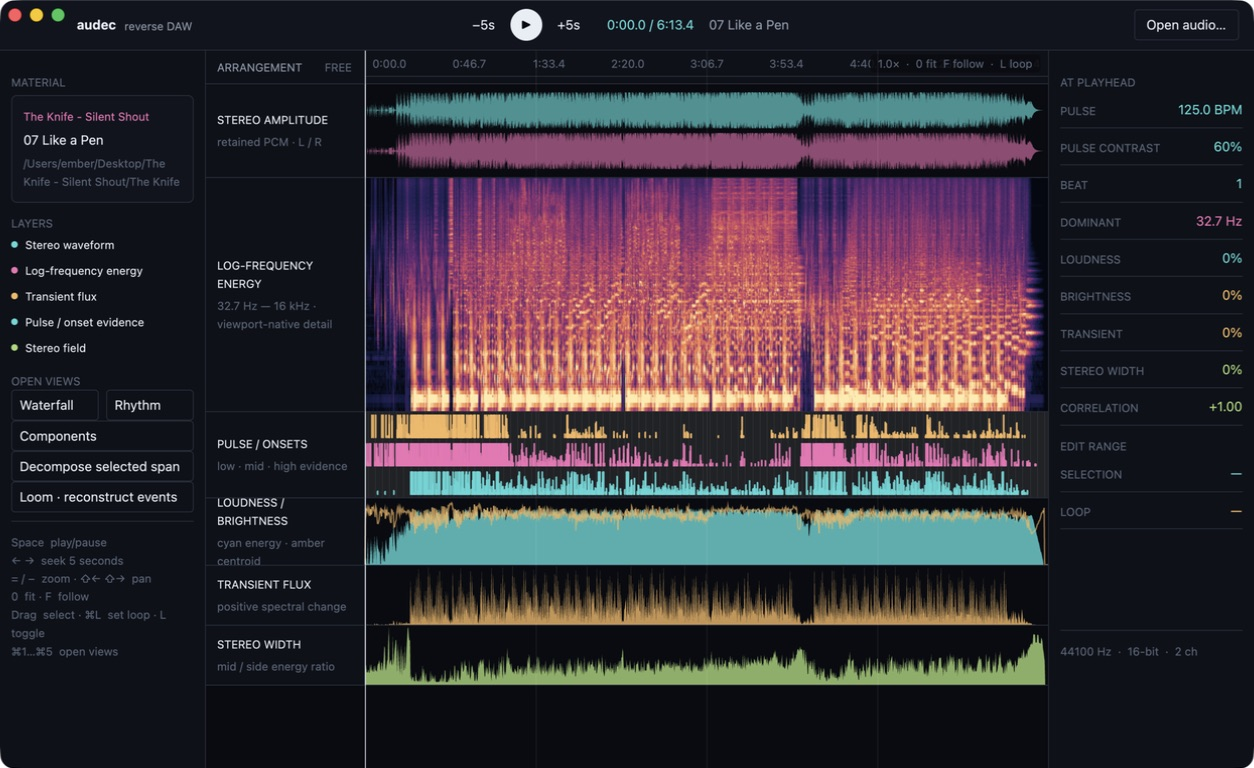
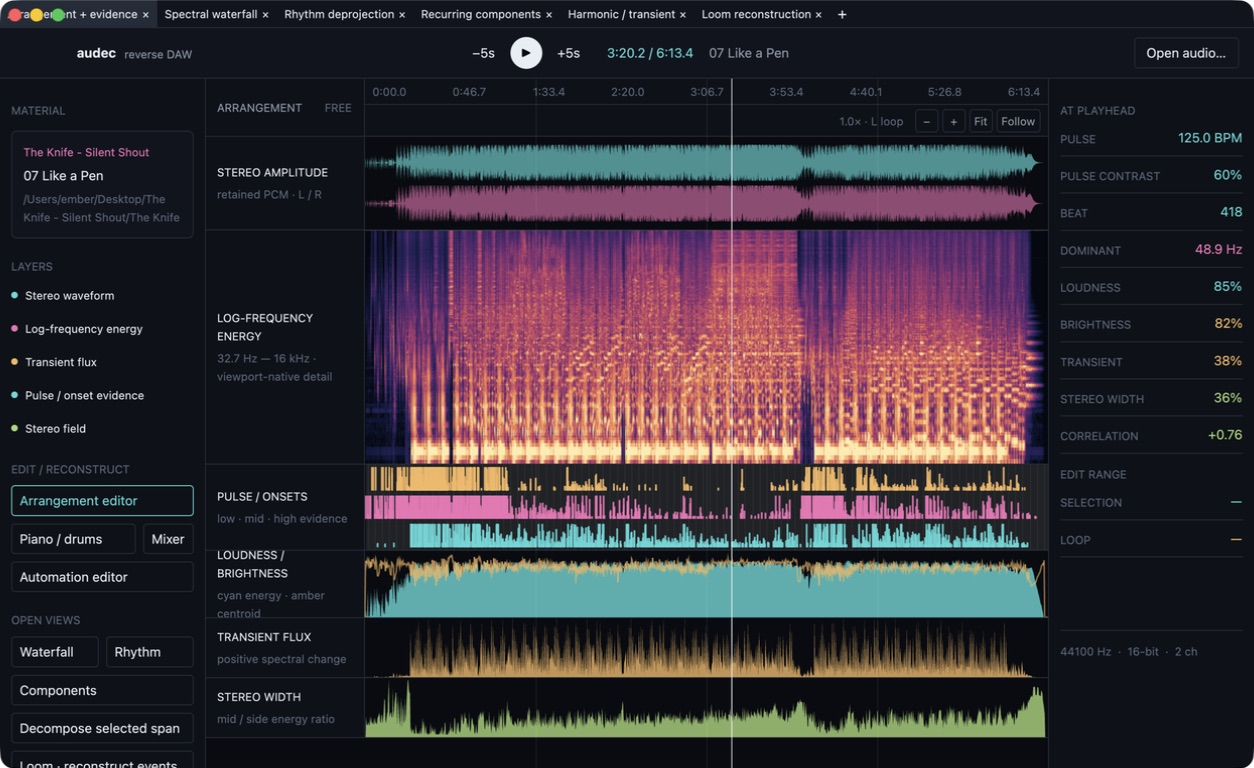
Integrate audible render engine and refresh project guide

diff --git a/src/daw_engine.rs b/src/daw_engine.rs
@@ -435,8 +435,8 @@ pub fn compile_daw_engine(
         if cancellation.is_cancelled() {
             return Err(DawEngineError::Cancelled);
         }
-        for event in &block.sequencer_events {
-            match &event.kind {
+        for event in block.sequencer_events.iter() {
+            match event.kind.clone() {
                 ScheduledKind::NoteOn { .. }
                 | ScheduledKind::NoteOff { .. }
                 | ScheduledKind::NoteExpression { .. } => {
@@ -445,8 +445,8 @@ pub fn compile_daw_engine(
                 ScheduledKind::Trigger {
                     target: TriggerTarget::InstrumentNote { instrument, .. },
                     ..
-                } if !config.instruments.contains_key(instrument) => {
-                    unresolved_instruments.insert(*instrument);
+                } if !config.instruments.contains_key(&instrument) => {
+                    unresolved_instruments.insert(instrument);
                 }
                 ScheduledKind::Trigger { .. }
                     if !config
@@ -1132,5 +1132,30 @@ mod tests {
             schedule.render_for_audition(&active),
             Err(DawEngineError::Cancelled)
         ));
+    }
+
+    #[test]
+    fn built_in_trigger_routing_requires_the_exact_instrument_identity() {
+        let definition = BuiltInInstrumentDefinition::Subtractive(SynthParams::default());
+        let event = ScheduledEvent {
+            block_offset: 0,
+            project_frame: crate::sequencer::ProjectFrame(12),
+            kind: ScheduledKind::Trigger {
+                clip: crate::sequencer::PatternClipId::from_raw(1),
+                lane: crate::sequencer::StepLaneId::from_raw(2),
+                target: TriggerTarget::InstrumentNote {
+                    instrument: 41,
+                    key: 60,
+                },
+                choke_group: None,
+                velocity: 1.0,
+                pan: 0.0,
+                pitch_semitones: 0.0,
+                gate_frames: 16,
+                ratchet: 0,
+            },
+        };
+        assert!(definition.accepts(41, &event));
+        assert!(!definition.accepts(42, &event));
     }
 }

diff --git a/src/main.rs b/src/main.rs
@@ -8,6 +8,7 @@ mod audio_host;
 mod automation;
 mod control_views;
 mod cqt;
+mod daw_engine;
 mod daw_project;
 mod daw_render;
 mod decomposition;

diff --git a/README.md b/README.md
@@ -6,7 +6,7 @@
 
 audec is a native, multiwindow audio workbench built with Rust and GPUI. Give it a finished recording and it turns the mix into inspectable measurements, recurring-pattern hypotheses, editable event templates, audible reconstructions, and residuals. The goal is not to claim access to the lost original session. It is to build the most useful explanation of the sound that the evidence supports—and let you listen to where that explanation fails.
 
-> **Project status:** audec is an early macOS prototype under active development. The current application is useful for exploring FLAC material and testing the reverse-DAW workflow, but it is not yet a production editor or source-separation product.
+> **Project status:** audec is an early macOS alpha under active development. It now has real arrangement, sequencing, automation, mixer, project, instrument, and render foundations, but several editors are still being connected to one audible aggregate project. It is not yet a production replacement for an established DAW or source-separation product.
 
 The project is developed at [ember.software](https://ember.software) and dual-licensed under Apache-2.0 or MIT.
 
@@ -32,11 +32,11 @@ Signal, inference, and experience stay distinct. A spectral peak is not automati
 
 ## What works today
 
-The current GPUI application provides a synchronized whole-material workbench and five native popout lenses:
+The current GPUI application provides a synchronized whole-material workbench and five analysis lenses in a Guise tab/split workspace. Lenses preserve their entity state when rearranged and can also open in independent native windows:
 
 - **Workbench atlas** — stereo waveform, log-frequency energy, loudness, spectral centroid, transient, stereo-width and correlation lanes, plus measurements at the shared playhead.
 - **Waterfall** — a retained numeric dB field with independent time and log-frequency viewports, adjustable FFT size, window function, dB ceiling, and display range. Analysis settings recompute the field instead of merely stretching an image.
-- **Rhythm and recurrence** — an explicitly provisional pulse hypothesis, low/mid/high onset evidence, and onset-centered spectral recurrence clusters with source times and similarity measurements.
+- **Rhythm deprojection** — asynchronous multiband novelty analysis, ranked tempo alternatives, beat/downbeat and pattern-start evidence, anonymous hit families, exact source spans, and auditionable family medoids. Families remain unnamed until stronger evidence exists.
 - **Components** — deterministic NMF spectral templates and activation histories presented as recurring mixed-audio hypotheses, with fit information rather than instrument names.
 - **Decomposition** — reconstructible, selection-local HPSS with audible original, tonally sustained estimate, transient estimate, and mixture null. Analysis is currently capped at 30 seconds while tiled complex-STFT caching is unfinished.
 - **Loom** — aligned, phase-preserving excerpts from recurring attacks deprojected into an editable event sequence. Clusters and events can be muted, shifted, or gain-adjusted; audec immediately overlap-adds a new render and exposes the residual.
@@ -45,7 +45,14 @@ All lenses share playback and seeking while retaining their own view range. They
 
 Loom is deliberately described as **event-template resynthesis**, not recovered stems. Its templates are excerpts from the mixture and may contain overlapping voices, room sound, and effects. NMF likewise finds recurring structure in a nonnegative time-frequency field; it does not establish source identity.
 
-The repository also contains UI-independent foundations now being integrated into the application:
+The application also exposes functional native DAW editors:
+
+- **Arrangement** — exact-frame audio, pattern, and automation clips with selection, snapping, pan/zoom, move, trim, split, duplicate, delete, undo/redo, and a provenance inspector. The loaded recording appears as a real source clip.
+- **Piano roll and drum sequencer** — editable note and step-pattern views backed by the PPQ sequencer, including quantize, swing, tempo/meter, microtiming-aware scheduling, and history.
+- **Mixer** — command-backed gain, pan, mute, solo, inserts, sends, routing, and undo/redo. Disconnected meters and plugin slots are labeled honestly.
+- **Automation** — typed parameter lanes with points, curve shapes, binding modes, compiled-value preview, and reversible edits.
+
+The repository contains the UI-independent foundations that these views are being joined onto:
 
 - a sample-accurate project session with typed track, lane, clip, cluster, and event IDs; transport, loop, selection, snapping, revisions, and reversible commands;
 - a persistent arrangement model with typed audio, pattern, and automation clips; trim, slip, split, duplicate, fades, stretch metadata, overlap policies, atomic edits, and undo/redo;
@@ -54,6 +61,10 @@ The repository also contains UI-independent foundations now being integrated int
 - a project asset pool with provenance, exact decoded metadata, missing-media handling, duplicate discovery, and deterministic relinking;
 - a typed AIR graph for source spans, auditory objects, polyphonic pitch trajectories, parameters, automation, modulation, transforms, relations, evidence, provenance, and competing hypotheses;
 - multiresolution constant-Q, multipitch, convolutional-NMF, and multiband rhythm-deprojection engines whose results remain explicitly hypotheses rather than recovered truth.
+- deterministic reconstruction proposals that preserve anonymous hit families, competing pitch/modulation implementations, microtiming, full-source residuals, evidence, confidence, and caveats;
+- built-in polyphonic subtractive synthesis and sample playback with exact scheduling, bounded voices, and allocation-free block rendering after construction;
+- a versioned portable project envelope with atomic saves, autosave recovery, asset-route intent, validation, and explicit domain-codec boundaries;
+- a provenance-pinned offline model registry and worker boundary: installed artifacts are hash-verified, and missing models remain an explicit user-download state.
 
 ## Getting started
 
@@ -93,6 +104,10 @@ The bundle identifier is `software.ember.audec`.
 | `⌘3` | Open recurring Components |
 | `⌘4` | Open HPSS Decomposition around the playhead |
 | `⌘5` | Open Loom around the playhead |
+| `⌘6` | Open the arrangement editor |
+| `⌘7` | Open the piano-roll / drum sequencer |
+| `⌘8` | Open the mixer |
+| `⌘9` | Open the automation editor |
 | Click a plot | Seek within that plot’s visible range |
 | Drag a plot | Select an exact sample range |
 | `=` / `-` | Zoom the arrangement in or out around the playhead |
@@ -145,16 +160,25 @@ The main implementation areas are:
 | `src/loom.rs` | Recurrence-template inference, editable events, overlap-add rendering, and fit metrics |
 | `src/session.rs` | Sample-accurate arrangement state, stable IDs, selection, snapping, and undo/redo |
 | `src/arrangement.rs` | Persistent typed tracks/clips and non-destructive DAW edit transactions |
+| `src/arrangement_view.rs` | Native exact-frame arrangement editor |
 | `src/sequencer.rs` | Tempo/meter map, piano-roll and step patterns, and exact event scheduling |
+| `src/sequencer_view.rs` | Piano-roll and drum/step editing UI |
 | `src/automation.rs` | Typed parameter targets and immutable realtime automation compilation |
 | `src/mixer.rs` | Routing, buses, sends, inserts, latency, and mixer edit history |
+| `src/control_views.rs` | Mixer and automation editing UI |
 | `src/assets.rs` | Project media pool, provenance, missing media, search, and relinking |
+| `src/asset_view.rs` | Searchable media-pool UI with provenance and usage inspection |
 | `src/audio.rs` / `src/audio_host.rs` | Sample-exact transport plus independent project and audition buses |
 | `src/render.rs` | Deterministic offline rendering, residual checks, and WAV export |
+| `src/daw_render.rs` / `src/daw_engine.rs` | Immutable aggregate render schedules and audible project rendering |
+| `src/instruments.rs` | Built-in sampler and polyphonic subtractive synthesizer DSP |
 | `src/plugin.rs` | Safe plugin discovery, state, ports, automation, and process-boundary contracts |
 | `src/rhythm.rs` | Multiband onset, tempo ambiguity, beat/downbeat, hit-family, and pattern evidence |
 | `src/cqt.rs` / `src/pitch.rs` / `src/nmfd.rs` | Constant-Q, pitch/modulation evidence, and recurring component hypotheses |
 | `src/ontology.rs` | Typed AIR objects, pitch, transforms, modulation, evidence, provenance, and alternatives |
+| `src/reconstruction.rs` | Ranked editable reconstruction proposals with uncertainty and residuals |
+| `src/project_io.rs` | Portable project envelopes, atomic saves, autosave, and recovery |
+| `src/model_registry.rs` / `src/model_worker.rs` | Verified optional-model artifacts and isolated worker protocol |
 | `src/timeline.rs` | Transport-independent sample-coordinate viewport mechanics |
 | `src/spectral_tiles.rs` | Visible-range, pixel-aware spectral analysis and bounded tile caching |
 | `src/workspace.rs` | Stable dock/tab/tear-off layout model and persistence |
@@ -162,7 +186,7 @@ The main implementation areas are:
 
 The original SDL/PortAudio views remain under `src/view/` as reference implementations while their useful controls and behavior are rebuilt as typed GPUI lenses. They are not part of the current application target.
 
-For the complete epistemic model, workspace design, and staged implementation plan, read [docs/VISION.md](docs/VISION.md). The optional model-worker strategy and audited source-separation candidates are documented in [docs/ML_MODELS.md](docs/ML_MODELS.md).
+For the complete epistemic model and workspace design, read [docs/VISION.md](docs/VISION.md). The concrete “roughly 85% of LMMS plus reverse-DAW advantages” acceptance gates live in [docs/LMMS_PARITY_ROADMAP.md](docs/LMMS_PARITY_ROADMAP.md). Optional model-worker strategy and audited decomposition candidates are documented in [docs/ML_MODELS.md](docs/ML_MODELS.md).
 
 ## Development
 
@@ -181,11 +205,11 @@ When adding an analysis result, preserve three things:
 
 ## Roadmap
 
-- **Arrangement editing** — connect the project session to a zoomable, scrollable multitrack timeline with selections, loops, snapping, stable event manipulation, and undo/redo.
-- **Flexible workspaces** — split/tab layouts, saved workspaces, linked view facets, and reliable tear-off/dock-back across native windows.
-- **Stronger rhythm deprojection** — SuperFlux-style multiband novelty, tempograms, visible half/double-time alternatives, editable beats, meter hypotheses, and beat-synchronous pattern starts.
-- **Deeper explanatory decomposition** — interactive NMF/NMFD, masking and reference-guided queries, then optional provenance-pinned ML workers whose outputs remain auditionable hypotheses.
-- **Production reconstruction** — non-destructive clips, automation and modulation lanes, source/gesture models, effects and routing hypotheses, plugin-ready rendering, export, and continuous residual comparison.
+- **One audible project** — connect arrangement, patterns, instruments, automation, mixer, transport, offline export, and persistence through the aggregate render engine.
+- **Editor unification** — make arrangement, sequencer, assets, mixer, automation, and analysis lenses first-class dockable panes sharing selection, time, and project state.
+- **Deeper explanatory decomposition** — interactive NMF/NMFD, masking and reference-guided queries, then provenance-pinned optional ML workers whose outputs remain auditionable hypotheses.
+- **Production reconstruction** — turn ranked rhythm, pitch, modulation, sample, synthesis, effects, and routing proposals into editable project branches with continuous residual comparison.
+- **DAW completeness** — recording, richer instruments/effects, controller mapping, freeze/bounce, reliable plugin hosting, project recovery, and the workflow gates in the LMMS-parity roadmap.
 - **Perceptual instruments** — agency and grouping alternatives, personal descriptive lexicons, and explicit crossmodal/vEAR bindings.
 
 The design test is simple: every mark should answer **what evidence is this, how was it derived, can I hear it, and what happens if I edit it?**
